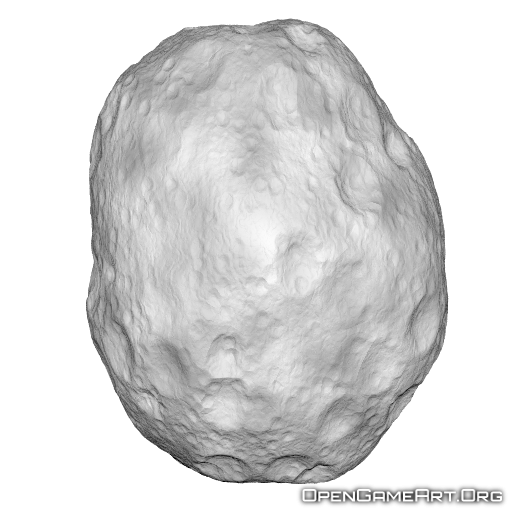
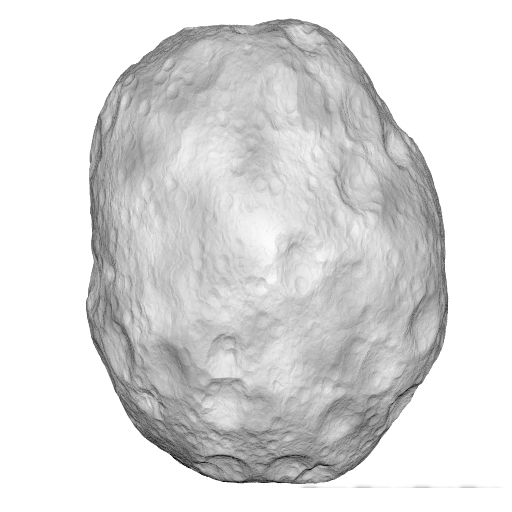
Group hero update
fixed to flash when hit
fixed health bar resolution
removed watermark from astroid
reset z position on astroid

Changed region(s): [[0.5625, 0.9375, 1.0, 1.0]]

diff --git a/public_html/src/MyGame/HeroGroup/HeroGroup_update.js b/public_html/src/MyGame/HeroGroup/HeroGroup_update.js
@@ -11,22 +11,28 @@ HeroGroup.prototype.update = function(enemySet, enemySet2, enemySet3, particleSe
     }
 };
 
+// allows hero to fire projectiles
 HeroGroup.prototype._serviceNormal = function (enemySet, enemySet2, enemySet3, aCamera) {
-    // can fire
+    // one projectile at a time
     if (this.mProjectiles.size() < 1 && gEngine.Input.isKeyClicked(gEngine.Input.keys.Space)) {
         this.mProjectiles.newAt(this.getXform().getPosition());
     }
 };
 
+// updates projectile with enemy
 HeroGroup.prototype._updateProjectile = function (enemySet, enemySet2, enemySet3, particleSet, func, aCamera) {
     var num = this.mProjectiles.update(enemySet, enemySet2, enemySet3, particleSet, func, aCamera);
     this.mNumDestroy += num;
 };
 
+// sets hero to invulnerable state
+// hero cannot fire
 HeroGroup.prototype._serviceInvulnerable = function () {
     this.mCurrentTick++;
     var c = this.getColor();
-    c[3] += 0.01;
+    if (this.mCurrentTick < 15) c[3] += 0.1;
+    if (this.mCurrentTick < 30 && this.mCurrentTick >= 15) c[3] -= 0.1;
+    if (this.mCurrentTick < 45 && this.mCurrentTick >= 30) c[3] += 0.1;
     if (this.mCurrentTick > 60) {
         this.mCurrentState = HeroGroup.eHeroGroupState.eNormal;
         this.getColor()[3] = 0;

diff --git a/public_html/src/MyGame/Scenes/MyGame.js b/public_html/src/MyGame/Scenes/MyGame.js
@@ -28,7 +28,7 @@ function MyGame() {
     this.kProjectileTexture = "assets/Bullet.png";
     this.kAstroidTexture = "assets/Astroid.png";
     this.kAstroidNormalMap = "assets/NormalMap.png";
-    this.kGhostTexture = "assets/Ghost.png";
+    this.kGhostTexture = "assets/Ghost_Small.png";
     this.kGhostDeadTexture = "assets/Scared.png";
 
     this.kGoalStar = "assets/GoalStar.png";

diff --git a/public_html/src/MyGame/Astroid/Astroid.js b/public_html/src/MyGame/Astroid/Astroid.js
@@ -5,7 +5,7 @@ function Astroid(spriteTexture, normalMap, atX, atY) {
 
     norm.getXform().setPosition(50, 35);
     norm.getXform().setSize(25, 25);
-    //norm.getXform().setZPos(10);
+    norm.getXform().setZPos(10);
     GameObject.call(this, norm);
 }
 gEngine.Core.inheritPrototype(Astroid, GameObject);
